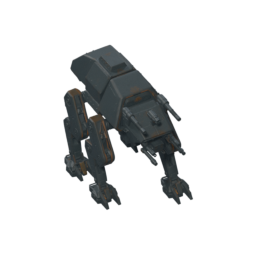
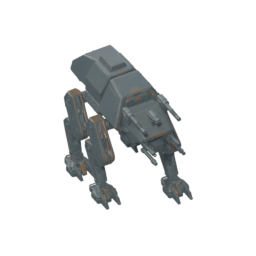
Visuals pass 2, units: patrol boat and submarine models, brighter walker, idle bobbing

Changed region(s): [[0.25, 0.1562, 0.75, 0.8125]]

diff --git a/web/static/app.js b/web/static/app.js
@@ -1287,7 +1287,7 @@ function isCivilian(type) { const t = S.view.unit_types[type]; return t && t.rol
 const UNIT_MODELS = {
   // model: [size in hex radii, figures in the squad]
   infantry: [0.7, 3], engineer: [0.66, 1], tank: [1.0, 1], artillery: [0.95, 1], walker: [0.95, 1],
-  drone: [0.5, 2, 0.35], destroyer: [1.25, 1], hover_tank: [1.0, 1],
+  drone: [0.5, 2, 0.35], destroyer: [1.25, 1], hover_tank: [1.0, 1], patrol_boat: [0.95, 1], submarine: [1.2, 1],
   alien_small: [0.55, 3], alien_warrior: [0.72, 2], alien_spitter: [0.8, 1], alien_brute: [0.95, 1], alien_titan: [1.25, 1],
 };
 const UNIT_ART = {
@@ -1298,13 +1298,13 @@ const UNIT_ART = {
   artillery: "artillery", city_artillery: "artillery", railgun_artillery: "artillery", self_propelled_howitzer: "artillery",
   rocket_battery: "artillery", plasma_cannon: "artillery", walker: "walker",
   drone_recon: "drone", swarm_drones: "drone",
-  scout_boat: "destroyer", destroyer: "destroyer", railgun_cruiser: "destroyer", attack_submarine: "destroyer",
+  scout_boat: "patrol_boat", destroyer: "destroyer", railgun_cruiser: "destroyer", attack_submarine: "submarine",
   alien_drone: "alien_small", alien_hatchling: "alien_small", alien_warrior: "alien_warrior", alien_pillager: "alien_warrior",
   alien_wraith: "alien_warrior", alien_spitter: "alien_spitter", alien_sporecaster: "alien_spitter",
   alien_hive_guard: "alien_brute", alien_brute: "alien_brute", alien_shieldbearer: "alien_brute",
   alien_titan: "alien_titan", alien_leviathan: "alien_titan",
 };
-const UNIT_IMG = new Map(), UNIT_SPR = new Map();
+const UNIT_IMG = new Map(), UNIT_SPR = new Map(), SHIPS = new Set(["destroyer", "patrol_boat", "submarine"]);
 function unitArt(type, Rb) {
   const model = UNIT_ART[type];
   if (!model || !UNIT_MODELS[model]) return null;
@@ -1349,7 +1349,7 @@ function cropToContent(img) {
 function drawFigures(u, x, y, R, scale = 1) {
   const art = R >= 14 ? unitArt(u.type, zoomStep(R)) : null;
   if (!art) return false;
-  const [sp, [size, n, lift = 0]] = art, side = R * size * 2 * scale / 2;  // sprites are rendered at 2x
+  const [sp, [size, n, lift = 0]] = art, model = UNIT_ART[u.type], side = R * size * 2 * scale / 2;  // sprites are rendered at 2x
   const owner = u.owner === "aliens" ? "#c2362b" : OWNER[u.owner] || "#999";
   // team-coloured base under the squad
   const bw = R * (n > 1 ? 0.5 : Math.min(0.5, size * 0.45)) * scale, bh = bw * 0.4;
@@ -1357,7 +1357,10 @@ function drawFigures(u, x, y, R, scale = 1) {
   ctx.strokeStyle = owner; ctx.lineWidth = Math.max(1.2, R * 0.03 * scale); ctx.globalAlpha = 0.8; ctx.stroke(); ctx.globalAlpha = 1;
   const spots = n === 3 ? [[-0.3, -0.1], [0.3, -0.1], [0, 0.12]] : n === 2 ? [[-0.2, 0], [0.2, 0.04]] : [[0, 0]];
   for (const [dx, dy] of spots) {
-    const fx = x + dx * R * scale, fy = y + (dy - lift) * R * scale;  // drones hover over their base
+    // idle motion: drones and hover tanks bob, ships rock on the swell (drones hover over their base)
+    const ph = performance.now() / 650 + (u.id || 0) * 1.7 + dx * 3;
+    const bob = model === "drone" ? Math.sin(ph) * 0.05 : model === "hover_tank" ? Math.sin(ph * 0.7) * 0.025 : SHIPS.has(model) ? Math.sin(ph * 0.5) * 0.015 : 0;
+    const fx = x + dx * R * scale, fy = y + (dy - lift + bob) * R * scale;
     ctx.drawImage(sp, fx - side / 2, fy - side * 0.94, side, side);
   }
   return true;

diff --git a/docs/VISUALS_PLAN.md b/docs/VISUALS_PLAN.md
@@ -41,7 +41,7 @@ Rules for every slice:
 - [x] 1. Terrain
 - [x] 2. Tile improvements and roads
 - [x] 3. Cities and alien hives
-- [ ] 4. Units
+- [x] 4. Units
 - [ ] 5. Council portraits
 - [ ] 6. Interface skin
 
@@ -58,3 +58,4 @@ Rules for every slice:
 - P2.1 Terrain: coastlines are now organic. Land hexes are blurred into a field (half a wide blur, half a narrow one so one-hex islands survive), wobbled by world-aligned value noise and cut at three levels: land, a beach band inside it and a surf band outside it. The field is built at quarter resolution and scaled up. Hexes next to unexplored ones count as land. Water is a deep-ocean base with one widely blurred shallows layer, so the depth line no longer steps. Forests grow in 2-4 clumps with clearings and a darker forest floor, in six variants per hex (7-14 trees). Every layer fills its hexes in one path, so blur runs once: a full screen of new chunks builds in about 0.2-0.45 s (was 0.15-1.4 s). Still weak: the boundaries between land types are still soft hexes.
 - P2.2 Improvements: mines are now a pithead filling the hex: spoil heaps, a timber headframe with its winding wheel, a shed, a shaft mouth, rails with sleepers and a loaded ore cart. Military bases are a sandbagged compound with a gate, two barracks, a watchtower, an armoured car and a flag. Turrets are a painted, cached emplacement: an octagonal concrete pad and an armoured gun house with one barrel per level and gold level pips (plus a health bar when the view sends max health). Still weak: extractors, beacons and masts are thin line art; roads have no bridges over rivers or coasts.
 - P2.3 Cities: towns and cities spill suburbs onto open neighbouring land (1, 3 or 5 hexes by tier, picked by a hash so they stay put). Suburbs are cached sprites of paving, houses, mid-rises and trees, drawn pulled toward the city so they join it. A hive spreads red creep onto 1-4 neighbours, with veins, small spires and pods. Hives now breathe: a slow pulsing glow from the heart and spores drifting up, drawn each frame (cheap: one gradient and a few dots). Still weak: suburbs ignore roads; city edges are still soft ellipses.
+- P2.4 Units: two more Meshy models (60 credits; 379 left). The scout boat is now a patrol boat and the attack submarine a surfaced submarine; destroyers and railgun cruisers keep the destroyer. The walker was re-rendered with more exposure, so it reads on dark ground. Idle motion: drones bob, hover tanks float, ships rock on the swell (a per-unit phase, no state). Still weak: no facing toward the move direction; land vehicles share the tank model; no attack animation.

diff --git a/web/static/units/README.md b/web/static/units/README.md
@@ -1,7 +1,7 @@
 # Unit art
 
 Each PNG is a 3D model generated with Meshy (text to 3D, on the designer's own Meshy account,
-2026-11-15) and rendered in Blender in this repo. The camera is orthographic, 40 degrees above the
+2026-11-15) and rendered in Blender in this repo (the patrol boat and submarine on 2026-11-15, pass 2; the walker re-rendered brighter). The camera is orthographic, 40 degrees above the
 horizon and turned 30 degrees, matching the map. Renders are 256 px with a transparent background,
 lit by a warm key light, a cool fill light and a rim light, using the AgX "Punchy" look.
 
@@ -18,7 +18,9 @@ client falls back to the drawn badge.
 | artillery | towed howitzer | artillery, city artillery, railgun, SP howitzer, rockets, plasma cannon |
 | walker | military combat mech walker | walker, exo infantry |
 | drone | quadcopter recon drone | drone recon, swarm drones |
-| destroyer | navy destroyer | every ship |
+| destroyer | navy destroyer | destroyer, railgun cruiser |
+| patrol_boat | small military patrol boat | scout boat |
+| submarine | surfaced attack submarine | attack submarine |
 | alien_small | small insectoid alien | alien drone, hatchling |
 | alien_warrior | bipedal alien with blade arms | warrior, pillager, wraith |
 | alien_spitter | alien artillery creature | spitter, sporecaster |
